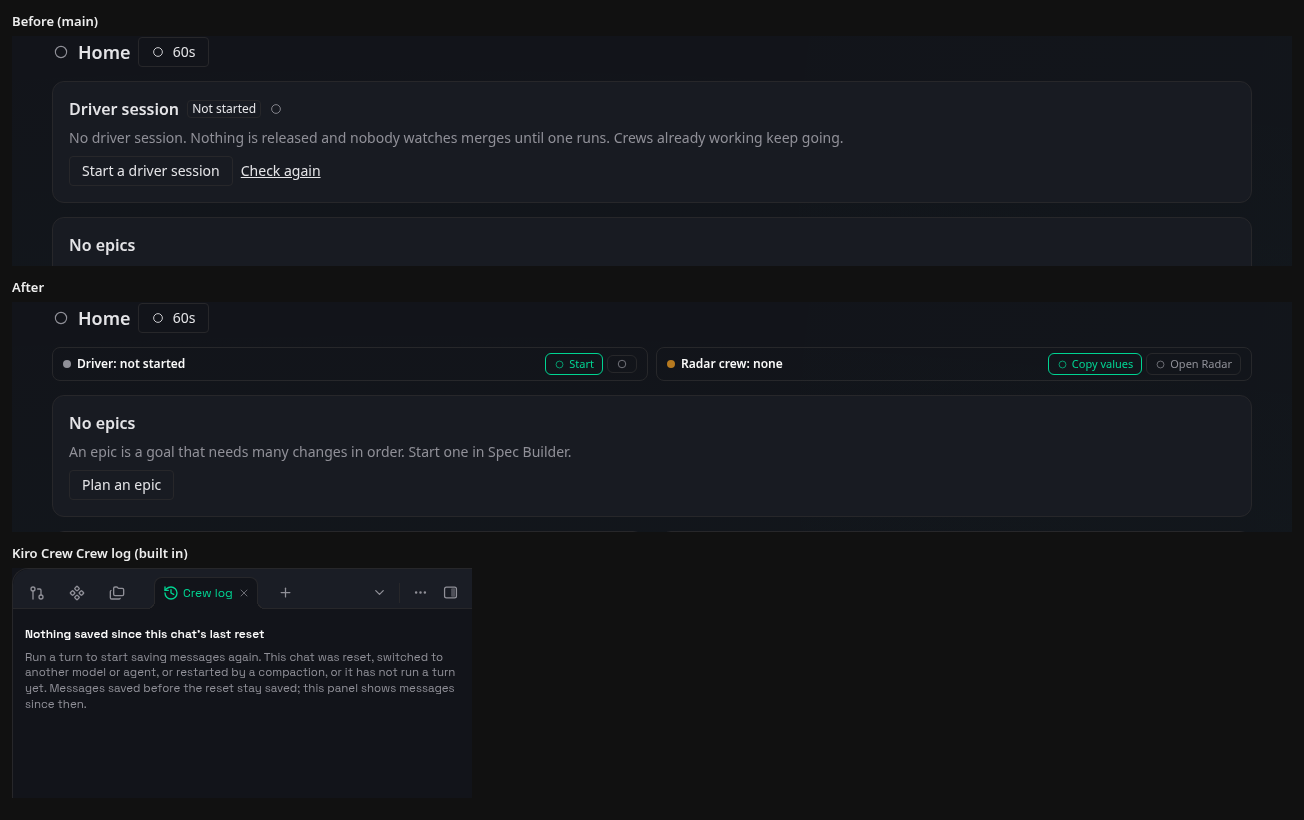
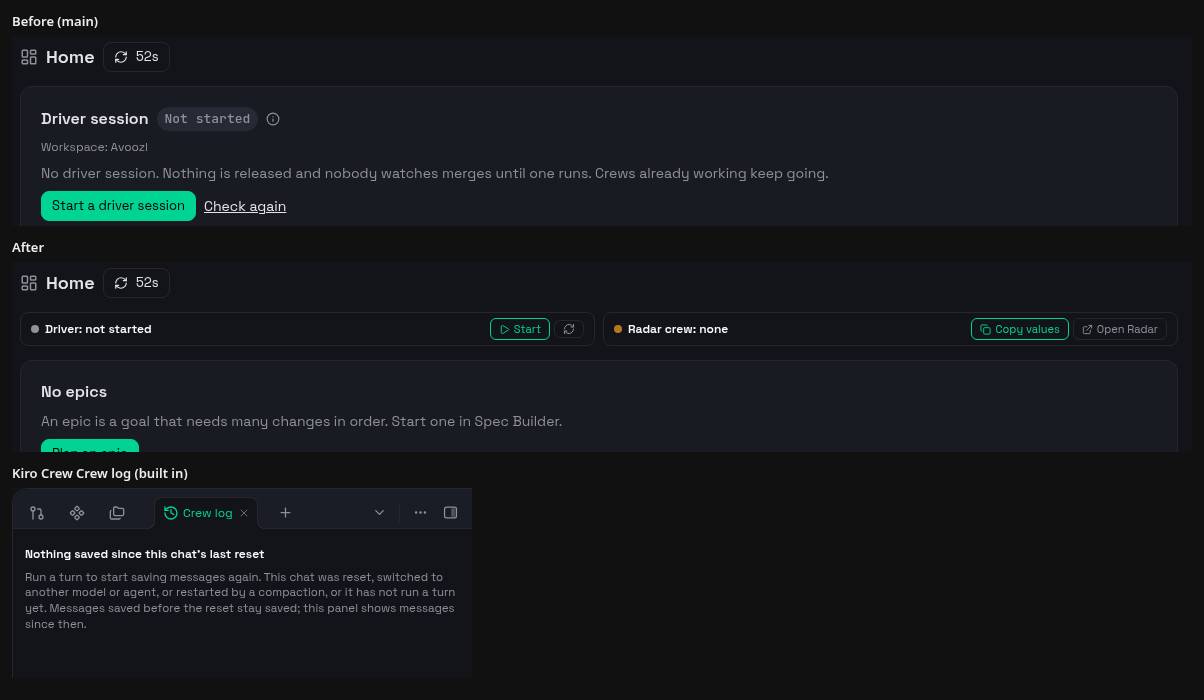
Status cells: tighter on a phone, real-host screenshots

diff --git a/kirocrew-app/ui/src/StatusCells.tsx b/kirocrew-app/ui/src/StatusCells.tsx
@@ -14,7 +14,7 @@ const CSS = `
 [data-sc-row]{container-type:inline-size}
 [data-sc-grid]{display:grid;grid-template-columns:repeat(auto-fit,minmax(0,1fr));gap:8px}
 @container (max-width:300px){[data-sc-grid]{grid-template-columns:minmax(0,1fr)}}
-[data-sc]{display:flex;flex-wrap:wrap;align-items:center;gap:2px 8px;min-width:0;padding:5px 10px;border:1px solid var(--border);border-radius:8px;font-size:12px;line-height:18px;color:var(--text)}
+[data-sc]{display:flex;flex-wrap:wrap;align-items:center;align-content:flex-start;gap:2px 8px;min-width:0;padding:5px 10px;border:1px solid var(--border);border-radius:8px;font-size:12px;line-height:18px;color:var(--text)}
 [data-sc-title]{display:inline-flex;align-items:center;gap:6px;min-width:0;max-width:100%;font-weight:600;color:var(--text-strong,var(--text));overflow:hidden;text-overflow:ellipsis;white-space:nowrap}
 [data-sc-dot]{flex:none;width:8px;height:8px;border-radius:50%;background:var(--muted)}
 [data-sc-dot][data-tone=ok]{background:var(--ok)}
@@ -25,7 +25,7 @@ const CSS = `
 [data-sc-act]:hover{background:var(--bg-hover);color:var(--text)}
 [data-sc-act][data-primary]{border-color:var(--accent);color:var(--accent)}
 [data-sc-act]:disabled{opacity:.6;cursor:default}
-@media (pointer:coarse),(max-width:640px){[data-sc-act]{min-height:44px;min-width:44px;padding:0 10px}[data-sc-narrow-hide]{display:none}[data-sc-act][data-icon-only]{padding:0}}
+@media (pointer:coarse),(max-width:640px){[data-sc-act]{min-height:44px;min-width:44px;padding:0 7px}[data-sc-narrow-hide]{display:none}[data-sc-act][data-icon-only]{padding:0}}
 `
 
 export function StatusRow(props: { children: ReactNode }) {
